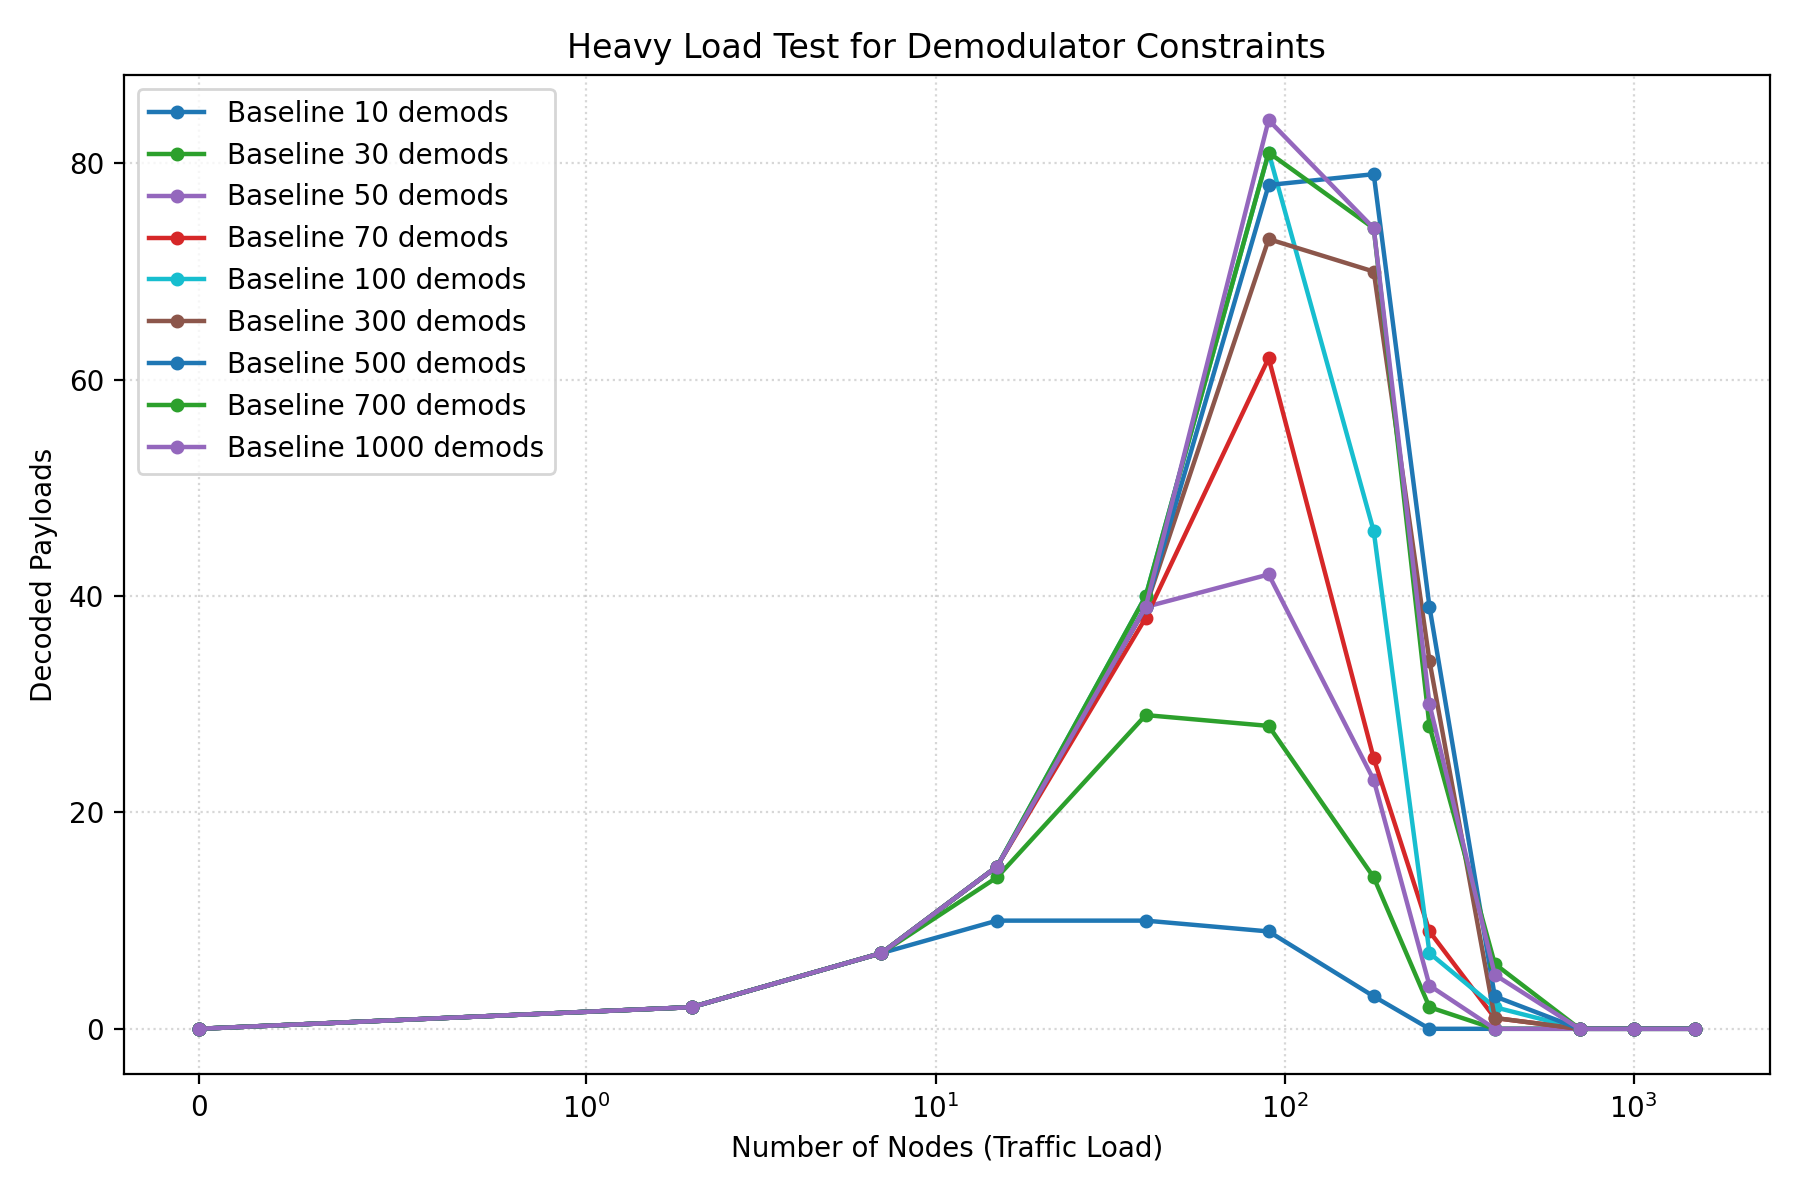
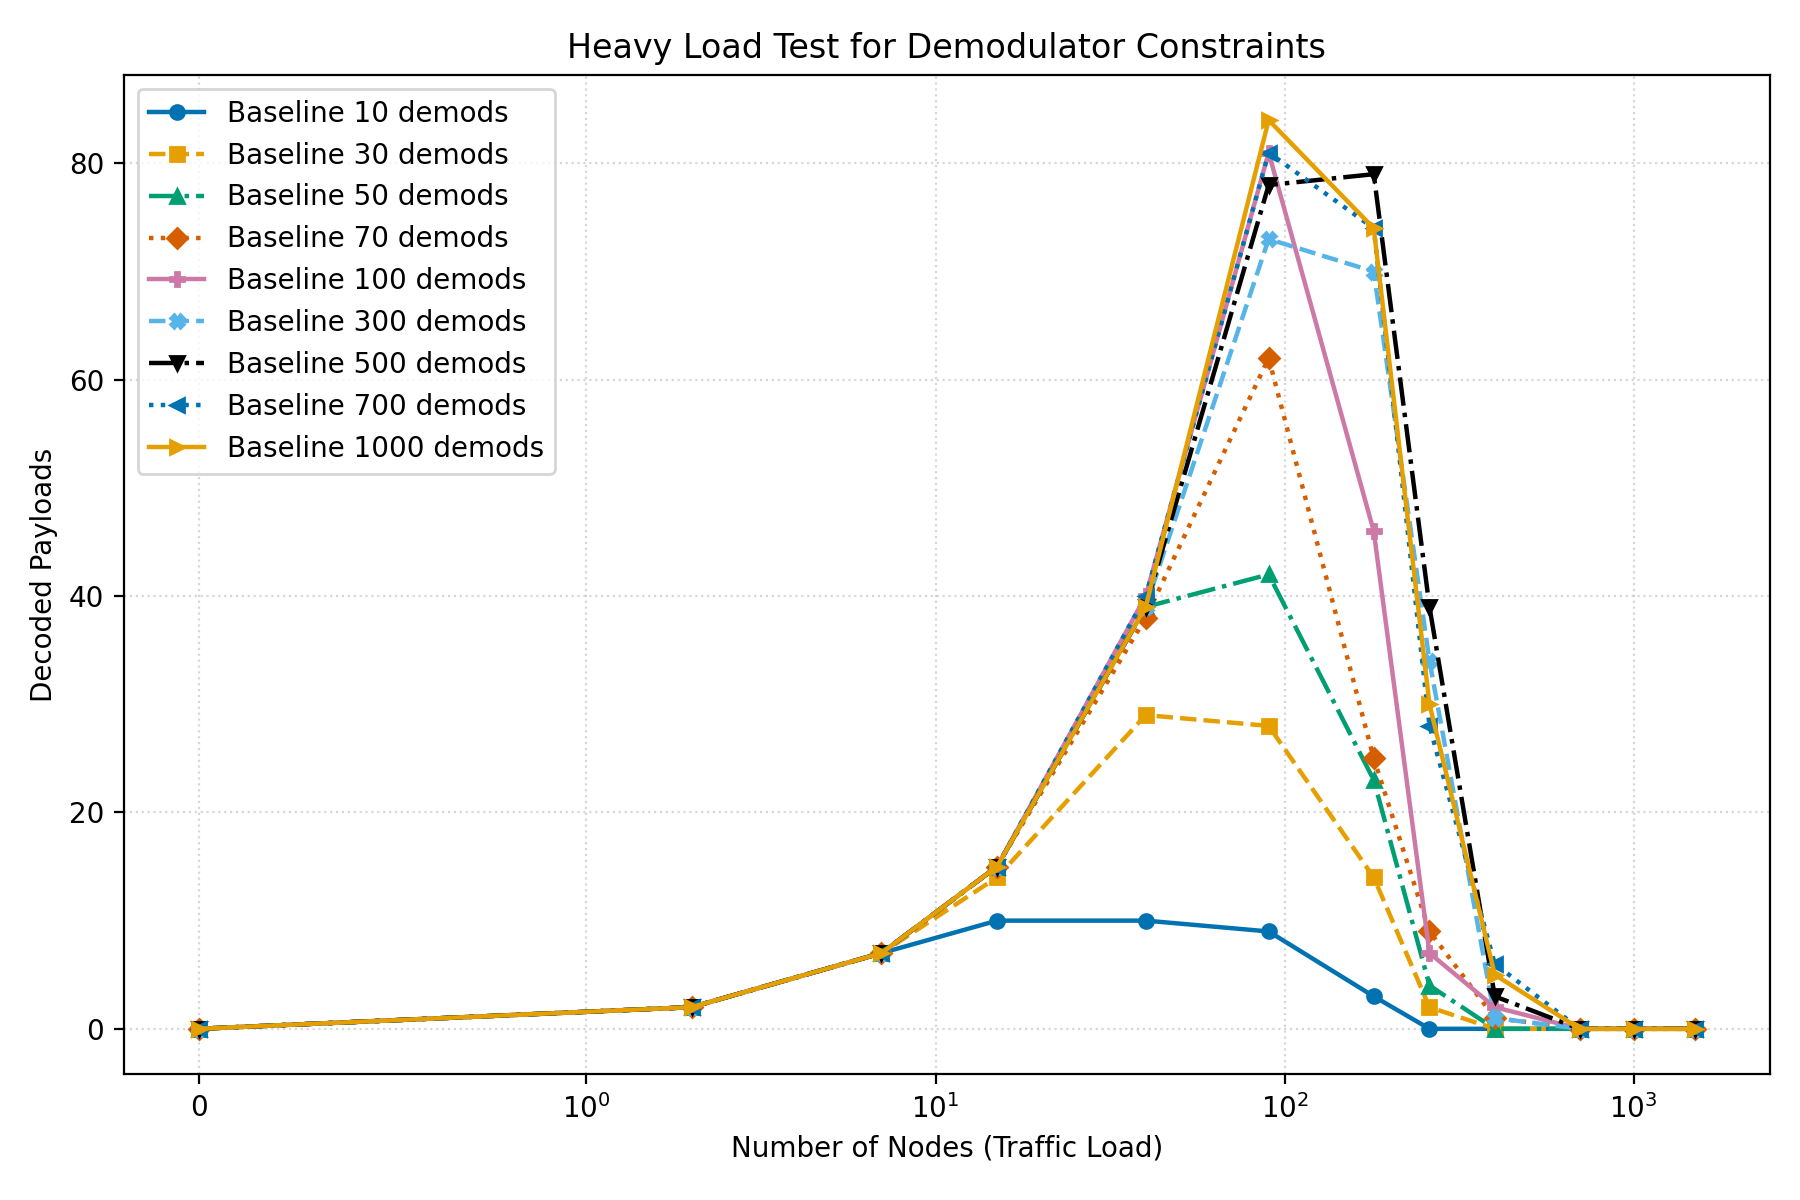
plot color, line and mark

diff --git a/workflow.py b/workflow.py
@@ -169,7 +169,18 @@ def store_metrics(records: list[dict], output_dir: Path):
 def generate_performance_plots(records: list[dict], output_dir: Path):
     output_dir.mkdir(parents=True, exist_ok=True)
 
-    colors = ["#1f77b4", "#2ca02c", "#9467bd", "#d62728", "#17becf", "#8c564b"]
+    # Okabe-Ito palette (color-blind-safe) + style cycles for print/grayscale readability.
+    colors = [
+        "#0072B2",  # blue
+        "#E69F00",  # orange
+        "#009E73",  # bluish green
+        "#D55E00",  # vermillion
+        "#CC79A7",  # reddish purple
+        "#56B4E9",  # sky blue
+        "#000000",  # black
+    ]
+    markers = ["o", "s", "^", "D", "P", "X", "v", "<", ">"]
+    line_styles = ["-", "--", "-.", ":"]
 
     # Plot 1: all series
     series = {}
@@ -184,14 +195,14 @@ def generate_performance_plots(records: list[dict], output_dir: Path):
         x = np.array(vals["x"])
         y = np.array(vals["y"])
         order = np.argsort(x)
-        line_style = "-"
+        line_style = line_styles[idx % len(line_styles)]
         ax.plot(
             x[order],
             y[order],
             linestyle=line_style,
-            marker="o",
+            marker=markers[idx % len(markers)],
             linewidth=1.6,
-            markersize=4,
+            markersize=5,
             color=colors[idx % len(colors)],
             label=f"{mode_label} {demods} demods",
         )
@@ -227,14 +238,14 @@ def generate_performance_plots(records: list[dict], output_dir: Path):
             x = np.array(vals["x"])
             y = np.array(vals["y"])
             order = np.argsort(x)
-            line_style = "-"
+            line_style = line_styles[idx % len(line_styles)]
             ax.plot(
                 x[order],
                 y[order],
                 linestyle=line_style,
-                marker="o",
+                marker=markers[idx % len(markers)],
                 linewidth=1.4,
-                markersize=3.5,
+                markersize=4.5,
                 color=colors[idx % len(colors)],
                 label=f"{mode_label} {demods} demods",
             )

diff --git a/plot_results.py b/plot_results.py
@@ -27,16 +27,30 @@ def plot_frame_summary(data: dict, out_dir: Path):
     decoded_bytes = [f.get("total_decoded_bytes", 0) for f in frames]
 
     fig, ax1 = plt.subplots(figsize=(8, 5))
-    ax1.plot(x, decoded_ratio, marker="o", color="tab:blue", label="Decoded HDR+PLD Ratio")
+    ax1.plot(
+        x,
+        decoded_ratio,
+        marker="o",
+        linestyle="-",
+        color="#0072B2",
+        label="Decoded HDR+PLD Ratio",
+    )
     ax1.set_xlabel("Elevation Angle (deg)")
-    ax1.set_ylabel("Decoded HDR+PLD Ratio", color="tab:blue")
-    ax1.tick_params(axis="y", labelcolor="tab:blue")
+    ax1.set_ylabel("Decoded HDR+PLD Ratio", color="#0072B2")
+    ax1.tick_params(axis="y", labelcolor="#0072B2")
     ax1.grid(True, linestyle=":", alpha=0.5)
 
     ax2 = ax1.twinx()
-    ax2.plot(x, decoded_bytes, marker="s", color="tab:orange", label="Decoded Bytes")
-    ax2.set_ylabel("Decoded Bytes", color="tab:orange")
-    ax2.tick_params(axis="y", labelcolor="tab:orange")
+    ax2.plot(
+        x,
+        decoded_bytes,
+        marker="s",
+        linestyle="--",
+        color="#D55E00",
+        label="Decoded Bytes",
+    )
+    ax2.set_ylabel("Decoded Bytes", color="#D55E00")
+    ax2.tick_params(axis="y", labelcolor="#D55E00")
 
     fig.suptitle("Workflow Performance vs Elevation Angle")
     fig.tight_layout()
@@ -103,7 +117,8 @@ def plot_per_beam_heatmap(data: dict, out_dir: Path):
     arr = np.array(heat)
 
     fig, ax = plt.subplots(figsize=(10, 4 + 0.3 * len(frames)))
-    im = ax.imshow(arr, aspect="auto", cmap="YlGn", vmin=0.0, vmax=1.0)
+    # 'cividis' is perceptually uniform and generally color-vision-deficiency friendly.
+    im = ax.imshow(arr, aspect="auto", cmap="cividis", vmin=0.0, vmax=1.0)
 
     ax.set_xticks(np.arange(len(beam_ids)))
     ax.set_xticklabels([str(i) for i in beam_ids], rotation=0)

diff --git a/heavy_load_workflow.py b/heavy_load_workflow.py
@@ -201,6 +201,18 @@ def store_metrics(records: list[dict], output_dir: Path):
 
 def generate_performance_plots(records: list[dict], output_dir: Path):
     output_dir.mkdir(parents=True, exist_ok=True)
+    # Okabe-Ito palette (color-blind-safe) + non-color encodings for readability.
+    palette = [
+        "#0072B2",  # blue
+        "#E69F00",  # orange
+        "#009E73",  # bluish green
+        "#D55E00",  # vermillion
+        "#CC79A7",  # reddish purple
+        "#56B4E9",  # sky blue
+        "#000000",  # black
+    ]
+    markers = ["o", "s", "^", "D", "P", "X", "v", "<", ">"]
+    line_styles = ["-", "--", "-.", ":"]
 
     # group by series
     series = {}
@@ -211,24 +223,22 @@ def generate_performance_plots(records: list[dict], output_dir: Path):
         series[key]["y"].append(r["decoded_payloads"])
 
     fig, ax = plt.subplots(figsize=(9, 6))
-    colors = {10: "#1f77b4", 100: "#2ca02c", 1000: "#9467bd"}
-
-    for (mode_label, demods), vals in sorted(series.items(), key=lambda t: (t[0][1], t[0][0])):
+    for idx, ((mode_label, demods), vals) in enumerate(sorted(series.items(), key=lambda t: (t[0][1], t[0][0]))):
         x = np.array(vals["x"])
         y = np.array(vals["y"])
         order = np.argsort(x)
         x = x[order]
         y = y[order]
 
-        ls = "--" if mode_label == "Early" else "-"
+        ls = line_styles[idx % len(line_styles)] if mode_label == "Baseline" else "--"
         ax.plot(
             x,
             y,
             linestyle=ls,
-            marker="o",
+            marker=markers[idx % len(markers)],
             linewidth=1.6,
-            markersize=4,
-            color=colors.get(demods, None),
+            markersize=5,
+            color=palette[idx % len(palette)],
             label=f"{mode_label} {demods} demods",
         )
 

diff --git a/ensure_reference_paths.py b/ensure_reference_paths.py
@@ -9,8 +9,7 @@ from pathlib import Path
 
 LRFHSS_GIT_URL = "git@github.com:SatNaingTun/LR-FHSS_LEO.git"
 MULTI_BEAM_ZIP_URL = (
-    "https://researchdata.tuwien.at/records/j31fx-wf765/files/"
-    "Multi-Beam-LEO-Framework.zip?download=1"
+    "https://researchdata.tuwien.at/records/j31fx-wf765/files/Multi-Beam-LEO-Framework.zip?download=1"
 )
 
 
@@ -74,9 +73,22 @@ def ensure_paths(multi_beam_root: Path, lrfhss_root: Path) -> None:
 
 
 def parse_args():
+    integration_root = Path(__file__).resolve().parent
+    snt_root = integration_root.parent
+
     parser = argparse.ArgumentParser(description="Ensure required external reference repositories exist.")
-    parser.add_argument("--multi-beam-root", type=Path, required=True)
-    parser.add_argument("--lrfhss-root", type=Path, required=True)
+    parser.add_argument(
+        "--multi-beam-root",
+        type=Path,
+        default=snt_root / "Multi-Beam-LEO-Framework",
+        help="Path where Multi-Beam-LEO-Framework should exist (default: sibling folder under SNT root).",
+    )
+    parser.add_argument(
+        "--lrfhss-root",
+        type=Path,
+        default=snt_root / "LR-FHSS_LEO",
+        help="Path where LR-FHSS_LEO should exist (default: sibling folder under SNT root).",
+    )
     return parser.parse_args()
 
 
